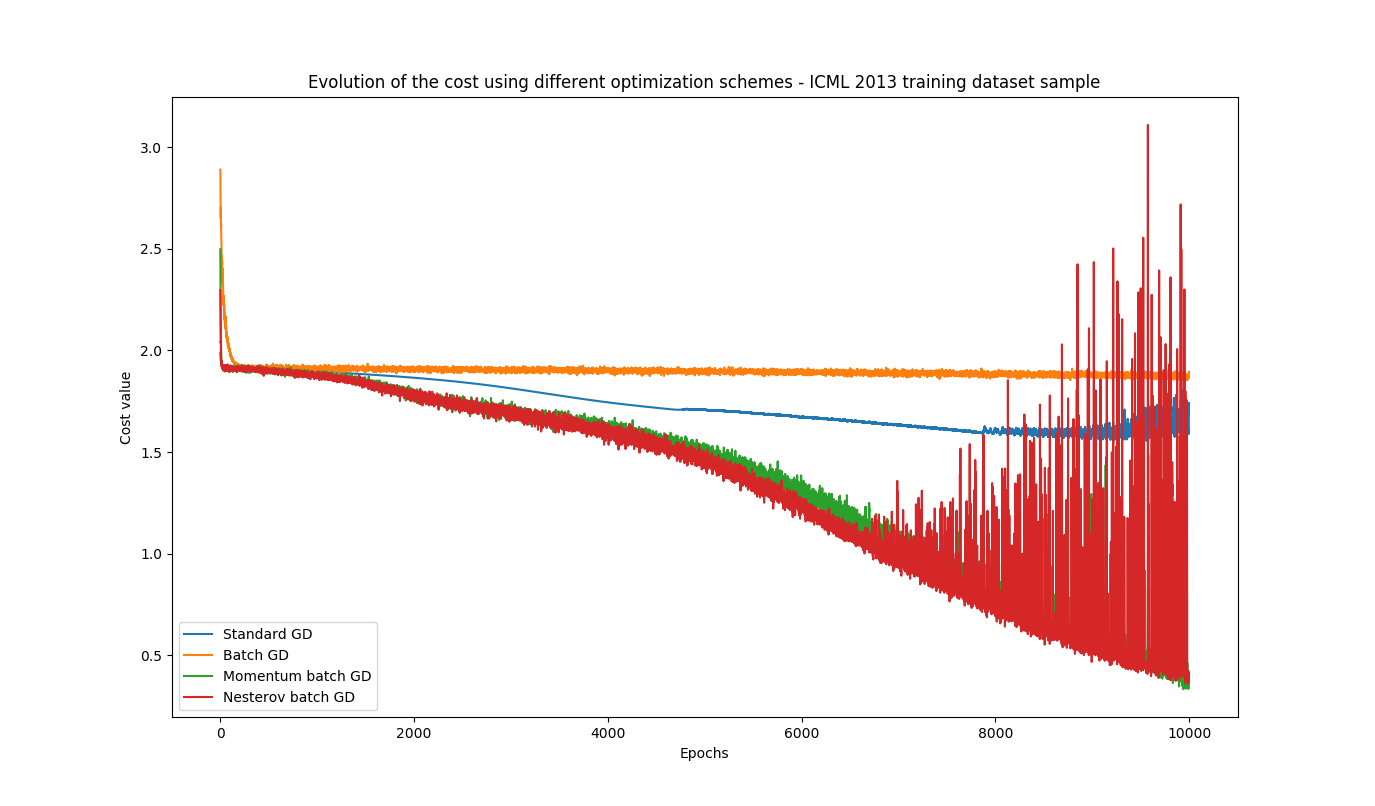
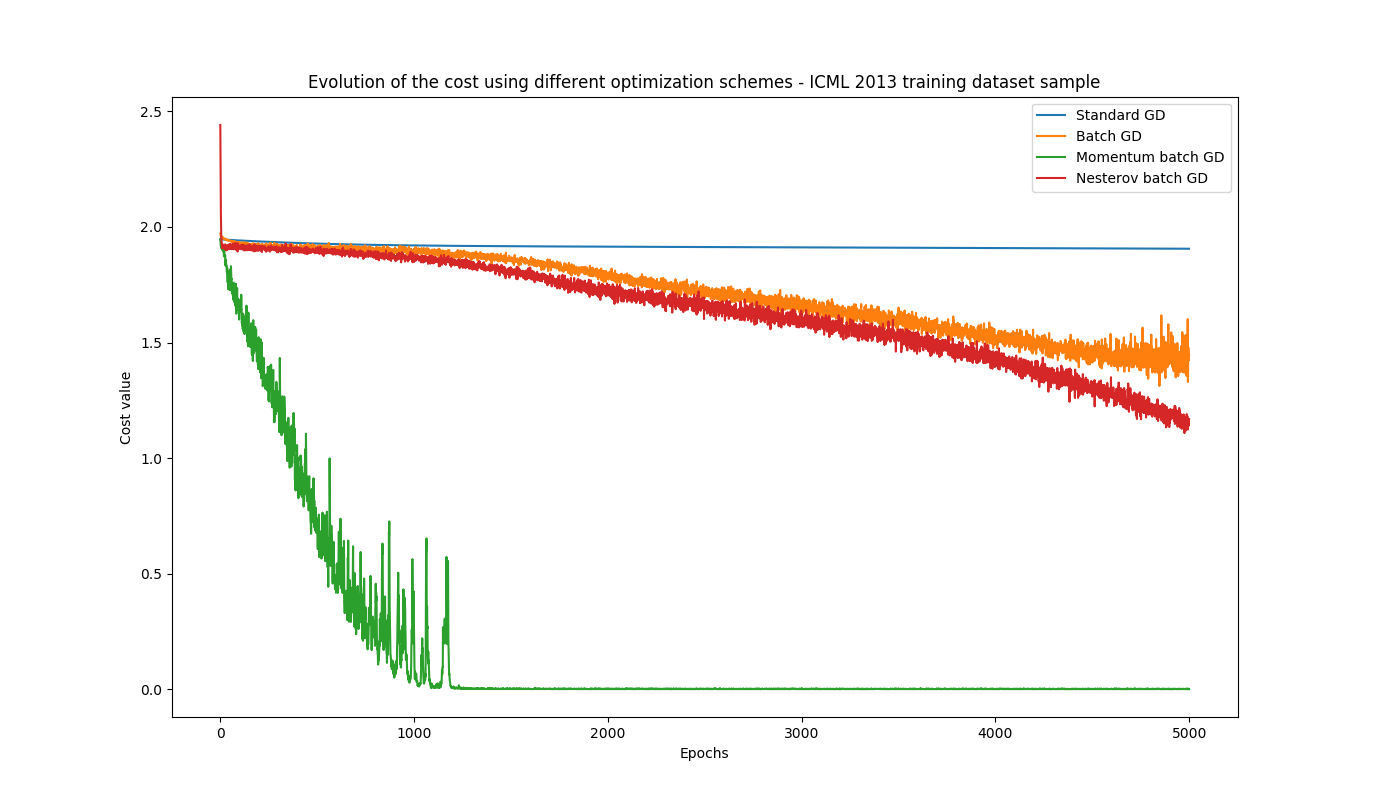
Add files via upload

diff --git a/ANN_relu_Multi_batch2.py b/ANN_relu_Multi_batch2.py
@@ -1,6 +1,6 @@
 # This API implements the following tasks:
 #  - Multi-layer 'relu' ANN models for multiclass problems
-#  - Batch GD optimization using plain momentum 
+#  - Batch GD optimization with plain momentum
 # 
 # Implementation from scratch (mainly using Numpy).
 import numpy as np
@@ -8,6 +8,7 @@ import matplotlib.pyplot as plt
 from  ann_functions import *
 import time
 from sklearn.utils import shuffle
+
 
 
 class ANN_relu(object):
@@ -20,15 +21,16 @@ class ANN_relu(object):
 
 
 
-	def fit(self, X, Y, alpha=1e-6, reg=1e-4, mu=0.8, epochs=5000, 
-		show_fig=False):		
+	def fit(self, X, Y, alpha=1e-3, reg=1e-4, mu=0.8, epochs=5000, 
+		show_fig=False, Ns=100, Nbatch=10):		
 		N, D = X.shape
 		K = len(np.unique(Y))
 
 		self.N = N  # this variable will be used for normalization
 		self.D = D  # store the dimension of the training dataset
 		# stores all hyperparameter values
-		self.hyperparameters = {'alpha':alpha, 'reg':reg, 'epochs':epochs}
+		self.hyperparameters = {'alpha':alpha, 'reg':reg, 'mu':mu,
+		'epochs':epochs, 'Ns':Ns, 'Nbatch':Nbatch}
 		
 
 		# creates an indicator matrix for the target
@@ -51,8 +53,7 @@ class ANN_relu(object):
 			self.db.append(0)
 
 
-		Ns = 100	# number of samples / batch
-		Nbatch = 10#N/Ns  # number of batches
+
 		J = np.zeros(epochs) # this array stores the cost with respect to each epoch
 		start = time.time()	# <-- starts measuring the optimization time from this point on...	
 
@@ -73,8 +74,7 @@ class ANN_relu(object):
 		end = time.time()
 		self.elapsed_t = (end-start)/60 # total elapsed time
 		self.cost = J # stores all cost values
-		self.Ns = Ns
-		self.Nbatch = Nbatch
+
 
 		print('\nOptimization complete')
 		print('\nElapsed time: {:.3f} min'.format(self.elapsed_t))
@@ -95,22 +95,23 @@ class ANN_relu(object):
 	def forward(self, X):
 		self.Z = [X] # this list contains all hidden unities + input/output
 		for i in range(0,len(self.M)):
-			self.Z.append(forward_step_relu(self.Z[i], self.W[i], self.b[i]))
-		self.Z.append(forward_step(self.Z[len(self.M)], self.W[len(self.M)], self.b[len(self.M)]))
-		self.Z[-1] = softmax(self.Z[-1])
+			self.Z.append(relu(self.Z[i].dot(self.W[i]) + self.b[i]))
+		self.Z.append(softmax(self.Z[len(self.M)].dot(self.W[len(self.M)]) + self.b[len(self.M)]))
 		return self.Z[-1]
 
 
 
-	# updating weights using plain momentum!
+	# updating weights using momentum!
 	def back_prop(self, Y, PY, alpha, reg, mu):
-		dZ = PY-Y
+		dZ = (PY-Y)/len(Y)
 		Z = self.Z[:-1]
 		Wbuf = self.W
 		for i in range(1,len(self.W)+1):
-			self.dW[-i] = mu*self.dW[-i] - alpha*(Z[-i].T.dot(dZ) + reg/self.N*self.W[-i])
+			v_W = self.dW[-i] # keeps track of previous changes (velocity)
+			self.dW[-i] = mu*v_W - alpha*(Z[-i].T.dot(dZ) + reg/self.N*self.W[-i])
 			self.W[-i] += self.dW[-i]
-			self.db[-i] = mu*self.db[-i] - alpha * (dZ.sum(axis=0) + reg/self.N*self.b[-i])
+			v_b = self.db[-i]
+			self.db[-i] = mu*v_b - alpha * (dZ.sum(axis=0) + reg/self.N*self.b[-i])
 			self.b[-i] += self.db[-i]			
 			dZ = dZ.dot(Wbuf[-i].T) * (Z[-i]>0)
 
@@ -123,9 +124,11 @@ class ANN_relu(object):
 
 
 
+
 def main():
 # number of samples for each class
-	N_class = 5000 
+	N_class = 1000 
+
 
 # generate random 2-D points 
 	X1 = np.random.randn(N_class,2)+np.array([2,2])
@@ -134,9 +137,24 @@ def main():
 	X4 = np.random.randn(N_class,2)+np.array([2,-2])
 	X = np.vstack([X1,X2,X3,X4])
 
+
 # labels associated to the input
 	Y = np.array([0]*N_class+[1]*N_class+[2]*N_class+[3]*N_class)
 	# Y = np.reshape(Y, (len(Y),1))
+
+
+# general data information for the training process
+	print('Total input samples:',X.shape[0])
+	print('Data dimension:',X.shape[1])
+	print('Number of output classes:',len(np.unique(Y)))
+	print('\n')
+
+
+# general data information for the training process
+	print('Total input samples:',X.shape[0])
+	print('Data dimension:',X.shape[1])
+	print('Number of output classes:',len(np.unique(Y)))
+	print('\n')
 
 
 # scatter plot of original labeled data
@@ -149,10 +167,10 @@ def main():
 
 
 # fit the model with the hyperparameters set	
-	model.fit(X, Y, alpha=1e-5, epochs=5000, reg=0, mu=.9, show_fig=True)
+	model.fit(X, Y, alpha=1e-3, epochs=5000, reg=0, mu=.9, show_fig=True)
 	
 
-# compute the model accuracy	
+# compute the model accuracy
 	Ypred = model.predict(X)
 	print('\nFinal model accuracy: {:.4f}'.format(np.mean(Y==Ypred)))
 

diff --git a/ANN_relu_Multi_batch3.py b/ANN_relu_Multi_batch3.py
@@ -10,6 +10,7 @@ import time
 from sklearn.utils import shuffle
 
 
+
 class ANN_relu(object):
 	def __init__(self, M):
 		# this assures that all hidden unities are stored in a list
@@ -20,15 +21,16 @@ class ANN_relu(object):
 
 
 
-	def fit(self, X, Y, alpha=1e-6, reg=1e-4, mu=0.8, epochs=5000, 
-		show_fig=False):		
+	def fit(self, X, Y, alpha=1e-3, reg=1e-4, mu=0.8, epochs=5000, 
+		show_fig=False, Ns=100, Nbatch=10):		
 		N, D = X.shape
 		K = len(np.unique(Y))
 
 		self.N = N  # this variable will be used for normalization
 		self.D = D  # store the dimension of the training dataset
 		# stores all hyperparameter values
-		self.hyperparameters = {'alpha':alpha, 'reg':reg, 'epochs':epochs}
+		self.hyperparameters = {'alpha':alpha, 'reg':reg, 'mu':mu,
+		'epochs':epochs, 'Ns':Ns, 'Nbatch':Nbatch}
 		
 
 		# creates an indicator matrix for the target
@@ -51,8 +53,7 @@ class ANN_relu(object):
 			self.v_b.append(0)
 
 
-		Ns = 100	# number of samples / batch
-		Nbatch = 10#N/Ns  # number of batches
+
 		J = np.zeros(epochs) # this array stores the cost with respect to each epoch
 		start = time.time()	# <-- starts measuring the optimization time from this point on...	
 
@@ -73,8 +74,7 @@ class ANN_relu(object):
 		end = time.time()
 		self.elapsed_t = (end-start)/60 # total elapsed time
 		self.cost = J # stores all cost values
-		self.Ns = Ns
-		self.Nbatch = Nbatch
+
 
 		print('\nOptimization complete')
 		print('\nElapsed time: {:.3f} min'.format(self.elapsed_t))
@@ -95,16 +95,15 @@ class ANN_relu(object):
 	def forward(self, X):
 		self.Z = [X] # this list contains all hidden unities + input/output
 		for i in range(0,len(self.M)):
-			self.Z.append(forward_step_relu(self.Z[i], self.W[i], self.b[i]))
-		self.Z.append(forward_step(self.Z[len(self.M)], self.W[len(self.M)], self.b[len(self.M)]))
-		self.Z[-1] = softmax(self.Z[-1])
+			self.Z.append(relu(self.Z[i].dot(self.W[i]) + self.b[i]))
+		self.Z.append(softmax(self.Z[len(self.M)].dot(self.W[len(self.M)]) + self.b[len(self.M)]))
 		return self.Z[-1]
 
 
 
 	# updating weights using Nesterov momentum!
 	def back_prop(self, Y, PY, alpha, reg, mu):
-		dZ = PY-Y
+		dZ = (PY-Y)/len(Y)
 		Z = self.Z[:-1]
 		Wbuf = self.W
 		for i in range(1,len(self.W)+1):
@@ -125,9 +124,11 @@ class ANN_relu(object):
 
 
 
+
 def main():
 # number of samples for each class
-	N_class = 5000 
+	N_class = 1000 
+
 
 # generate random 2-D points 
 	X1 = np.random.randn(N_class,2)+np.array([2,2])
@@ -136,9 +137,24 @@ def main():
 	X4 = np.random.randn(N_class,2)+np.array([2,-2])
 	X = np.vstack([X1,X2,X3,X4])
 
+
 # labels associated to the input
 	Y = np.array([0]*N_class+[1]*N_class+[2]*N_class+[3]*N_class)
 	# Y = np.reshape(Y, (len(Y),1))
+
+
+# general data information for the training process
+	print('Total input samples:',X.shape[0])
+	print('Data dimension:',X.shape[1])
+	print('Number of output classes:',len(np.unique(Y)))
+	print('\n')
+
+
+# general data information for the training process
+	print('Total input samples:',X.shape[0])
+	print('Data dimension:',X.shape[1])
+	print('Number of output classes:',len(np.unique(Y)))
+	print('\n')
 
 
 # scatter plot of original labeled data
@@ -151,7 +167,7 @@ def main():
 
 
 # fit the model with the hyperparameters set	
-	model.fit(X, Y, alpha=1e-5, epochs=5000, reg=0, mu=.9, show_fig=True)
+	model.fit(X, Y, alpha=1e-3, epochs=5000, reg=0, mu=.9, show_fig=True)
 	
 
 # compute the model accuracy	

diff --git a/fer_batch2.py b/fer_batch2.py
@@ -6,6 +6,7 @@
 import numpy as np
 import matplotlib.pyplot as plt
 from ANN_relu_Multi_batch2 import ANN_relu
+from sklearn.externals import joblib
 
 
 
@@ -28,7 +29,7 @@ def main():
 
 
 # train the model with a hyperparameters setting
-    model.fit(X, Y, alpha=1e-6, epochs=10000, reg=1e-2, mu=0.9, show_fig=True)
+    model.fit(X, Y, alpha=1e-2, epochs=5000, reg=0, mu=0.9, show_fig=True)
 
 
 # compute the prediciton/accuracy based on input data
@@ -38,8 +39,7 @@ def main():
 
 
 # save the model object to a file
-    from sklearn.externals import joblib
-    joblib.dump(model, 'ANN_relu_batch2.sav')
+    # joblib.dump(model, 'ANN_relu_batch2.sav')
     
 
 

diff --git a/fer_batch3.py b/fer_batch3.py
@@ -6,6 +6,7 @@
 import numpy as np
 import matplotlib.pyplot as plt
 from ANN_relu_Multi_batch3 import ANN_relu
+from sklearn.externals import joblib
 
 
 
@@ -28,7 +29,7 @@ def main():
 
 
 # train the model with a hyperparameters setting
-    model.fit(X, Y, alpha=1e-6, epochs=10000, reg=1e-2, mu=0.9, show_fig=True)
+    model.fit(X, Y, alpha=1e-4, epochs=5000, reg=0, mu=0.92, show_fig=True)
 
 
 # compute the prediciton/accuracy based on input data
@@ -38,7 +39,6 @@ def main():
 
 
 # save the model object to a file
-    from sklearn.externals import joblib
     joblib.dump(model, 'ANN_relu_batch3.sav')
     
 

diff --git a/ANN_relu_Multi_batch.py b/ANN_relu_Multi_batch.py
@@ -141,6 +141,13 @@ def main():
 	print('\n')
 
 
+# general data information for the training process
+	print('Total input samples:',X.shape[0])
+	print('Data dimension:',X.shape[1])
+	print('Number of output classes:',len(np.unique(Y)))
+	print('\n')
+
+
 # scatter plot of original labeled data
 	plt.scatter(X[:,0],X[:,1],c=Y,s=50,alpha=0.5)
 	plt.show()
